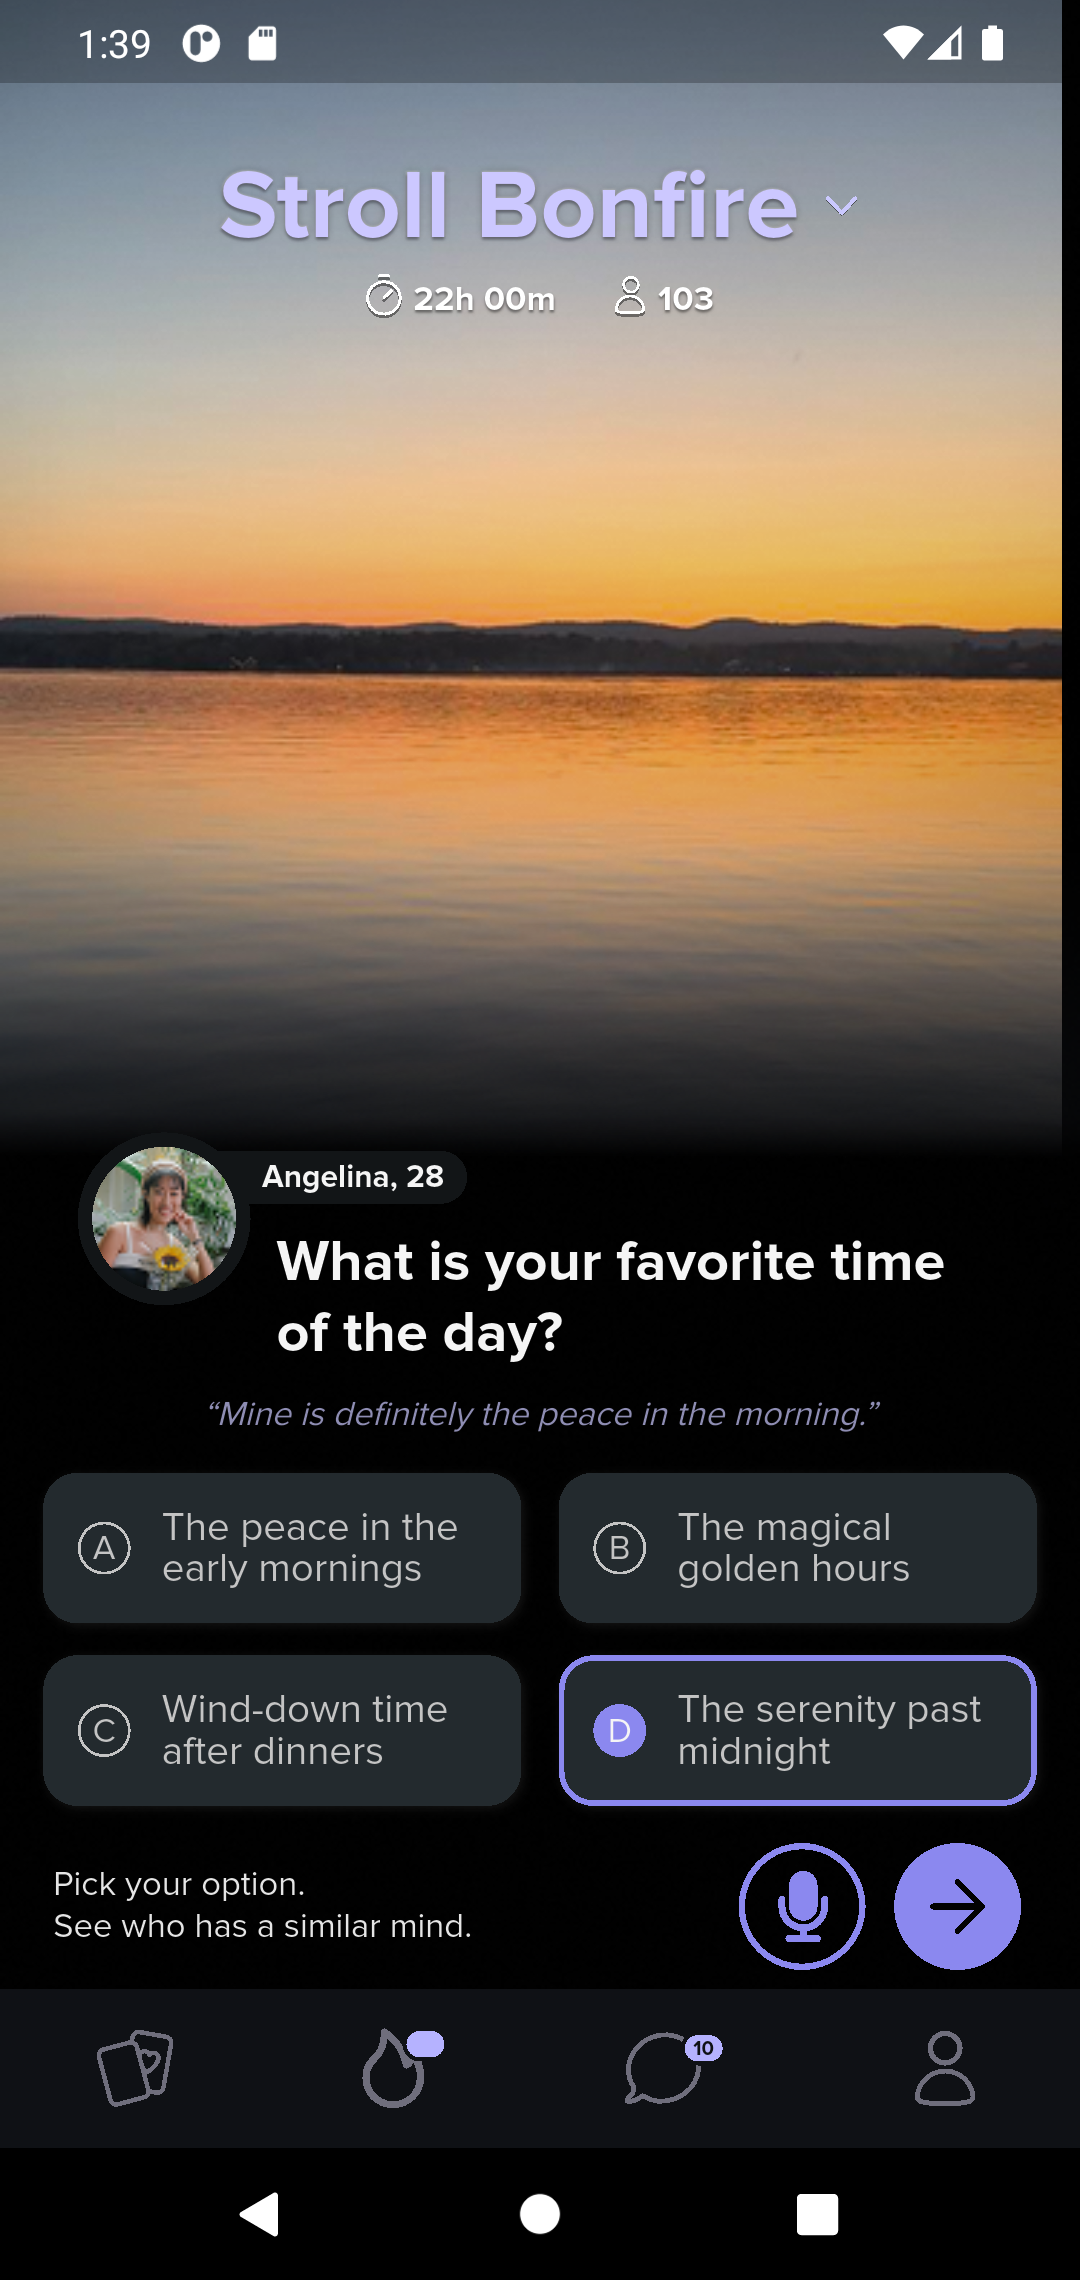
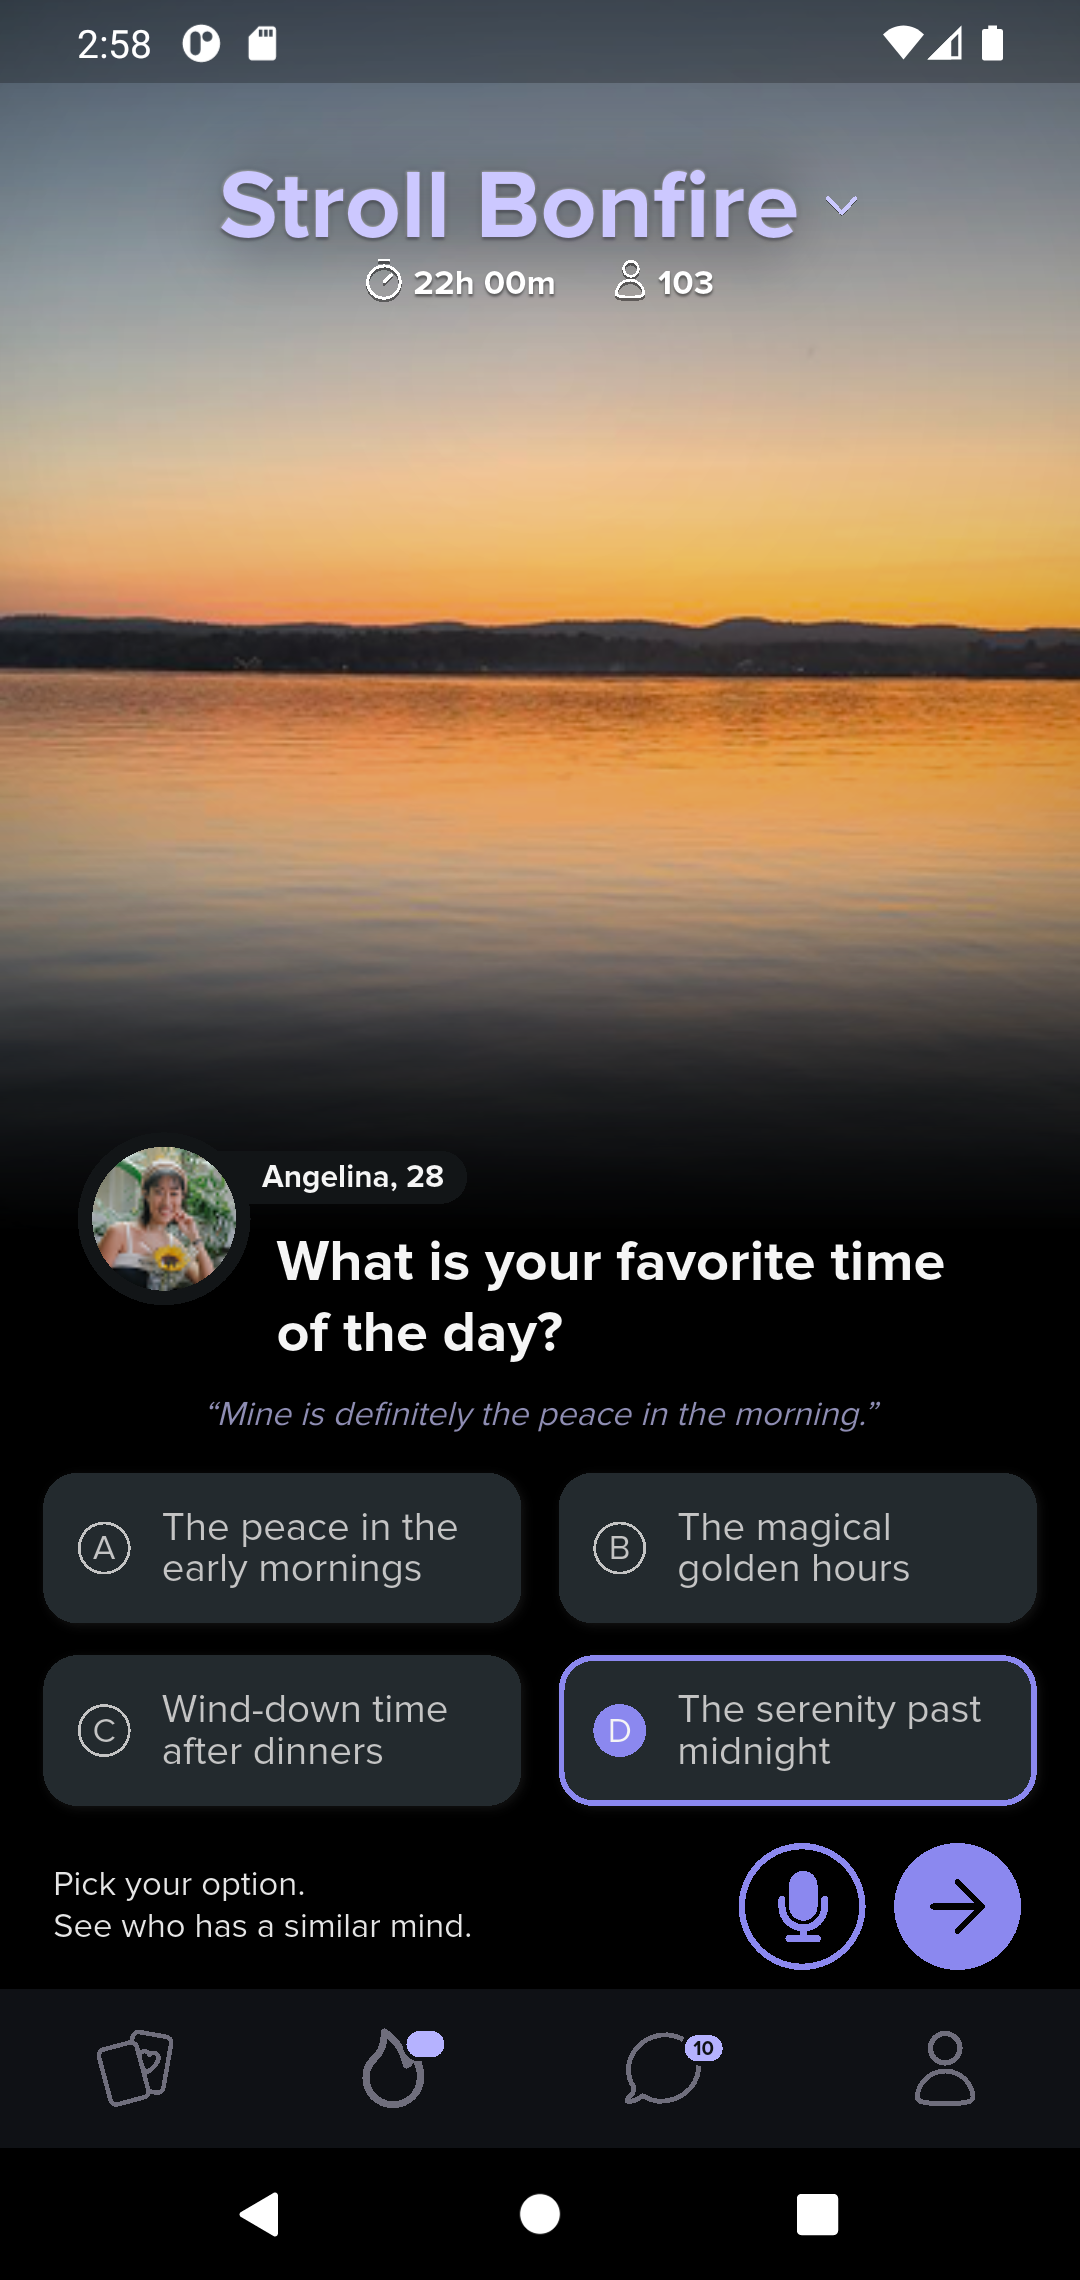
Clean up

diff --git a/lib/screens/home.dart b/lib/screens/home.dart
@@ -2,11 +2,9 @@
 import 'dart:io';
 
 import 'package:flutter/material.dart';
-
 // Package imports:
 import 'package:flutter_screenutil/flutter_screenutil.dart';
 import 'package:flutter_svg/flutter_svg.dart';
-
 // Project imports:
 import 'package:stroll_demo/gen/assets.gen.dart';
 import 'package:stroll_demo/l10n/app_localizations.dart';
@@ -19,8 +17,50 @@ class HomeScreen extends StatelessWidget {
     return Scaffold(
       body: Stack(
         children: [
-          Assets.images.background.image(fit: BoxFit.cover, height: 502.h),
-          Assets.images.fade.image(fit: BoxFit.cover, width: double.infinity),
+          Assets.images.background.image(
+            fit: BoxFit.cover,
+            height: 502.h,
+            width: double.infinity,
+          ),
+          Container(
+            width: double.infinity,
+            height: double.infinity,
+            decoration: const BoxDecoration(
+              gradient: LinearGradient(
+                begin: Alignment.topCenter,
+                end: Alignment.bottomCenter,
+                stops: [0.0, 0.14, 0.234, 0.4397, 0.486, 0.5252, 0.5514, 0.62],
+                colors: [
+                  Color.fromRGBO(0, 0, 0, 0.4),
+                  Color.fromRGBO(0, 0, 0, 0.123359),
+                  Color.fromRGBO(0, 0, 0, 0.0),
+                  Color.fromRGBO(15, 17, 21, 0.0),
+                  Color.fromRGBO(13, 14, 18, 0.28),
+                  Color.fromRGBO(11, 12, 15, 0.64),
+                  Color.fromRGBO(9, 11, 13, 0.8),
+                  Colors.black,
+                ],
+              ),
+            ),
+          ),
+          Container(
+            width: double.infinity,
+            height: double.infinity,
+            decoration: const BoxDecoration(
+              gradient: RadialGradient(
+                center: Alignment(0.0026, -0.6256),
+                radius: 0.7467,
+                stops: [0.0, 0.6328, 0.7566, 0.8844, 1.0],
+                colors: [
+                  Color.fromRGBO(0, 0, 0, 0.045),
+                  Color.fromRGBO(0, 0, 0, 0.107193),
+                  Color.fromRGBO(0, 0, 0, 0.135),
+                  Color.fromRGBO(0, 0, 0, 0.195),
+                  Color.fromRGBO(0, 0, 0, 0.24),
+                ],
+              ),
+            ),
+          ),
           SafeArea(
             child: Padding(
               padding: EdgeInsets.fromLTRB(15.w, 15.h, 15.w, 7.h),
@@ -133,27 +173,38 @@ class _TopBar extends StatelessWidget {
         Row(
           mainAxisAlignment: MainAxisAlignment.center,
           children: [
-            Text(
-              l10n.strollBonfireTitle,
-              style: textTheme.headlineLarge?.copyWith(
-                color: colorScheme.primaryContainer,
-                shadows: const [
-                  Shadow(
+            Container(
+              decoration: BoxDecoration(
+                boxShadow: [
+                  BoxShadow(
                     color: Color(0x33000000),
-                    blurRadius: 7.9,
-                    offset: Offset(0, 0),
-                  ),
-                  Shadow(
-                    color: Color(0xFFBEBEBE),
-                    blurRadius: 2.0,
-                    offset: Offset(0, 0),
-                  ),
-                  Shadow(
-                    color: Color(0x8024232F),
-                    blurRadius: 2.0,
-                    offset: Offset(0, 1),
+                    offset: Offset(0, 2),
+                    blurRadius: 20.0.r,
                   ),
                 ],
+              ),
+              child: Text(
+                l10n.strollBonfireTitle,
+                style: textTheme.headlineLarge?.copyWith(
+                  color: colorScheme.primaryContainer,
+                  shadows: [
+                    Shadow(
+                      color: Color(0x33000000),
+                      blurRadius: 7.9.r,
+                      offset: Offset(0, 0),
+                    ),
+                    Shadow(
+                      color: Color(0xFFBEBEBE),
+                      blurRadius: 2.0.r,
+                      offset: Offset(0, 0),
+                    ),
+                    Shadow(
+                      color: Color(0x8024232F),
+                      blurRadius: 2.0.r,
+                      offset: Offset(0, 1),
+                    ),
+                  ],
+                ),
               ),
             ),
             8.horizontalSpace,
@@ -173,9 +224,10 @@ class _TopBar extends StatelessWidget {
             ),
           ],
         ),
-        8.verticalSpace,
+        2.verticalSpace,
         Row(
           mainAxisAlignment: MainAxisAlignment.center,
+          mainAxisSize: MainAxisSize.min,
           crossAxisAlignment: CrossAxisAlignment.end,
           children: [
             _ShadowedIcon(
@@ -341,7 +393,10 @@ class _AnswerOptionsGrid extends StatelessWidget {
       children: [
         Row(
           mainAxisAlignment: MainAxisAlignment.spaceBetween,
-          children: [_OptionButton('A', l10n.optionA), _OptionButton('B', l10n.optionB)],
+          children: [
+            _OptionButton('A', l10n.optionA),
+            _OptionButton('B', l10n.optionB),
+          ],
         ),
         12.verticalSpace,
         Row(

diff --git a/README.md b/README.md
@@ -15,11 +15,11 @@ A Flutter application demonstrating clean UI/UX principles.
     <td align="center">App Screen (Android)</td>
   </tr>
   <tr>
-    <td><img src="assets/screenshots/home_ios.png" alt="App Screenshot" width=270></td>
+    <td><img src="assets/screenshots/home_ios.png" alt="App Screenshot" height=500></td>
     <td>&nbsp;</td>
-    <td><img src="assets/screenshots/figma.png" alt="Figma Design" width=270></td>
+    <td><img src="assets/screenshots/figma.png" alt="Figma Design" height=500></td>
     <td>&nbsp;</td>
-    <td><img src="assets/screenshots/home_android.png" alt="Figma Design" width=270></td>
+    <td><img src="assets/screenshots/home_android.png" alt="Figma Design" height=500></td>
   </tr>
 </table>
 
